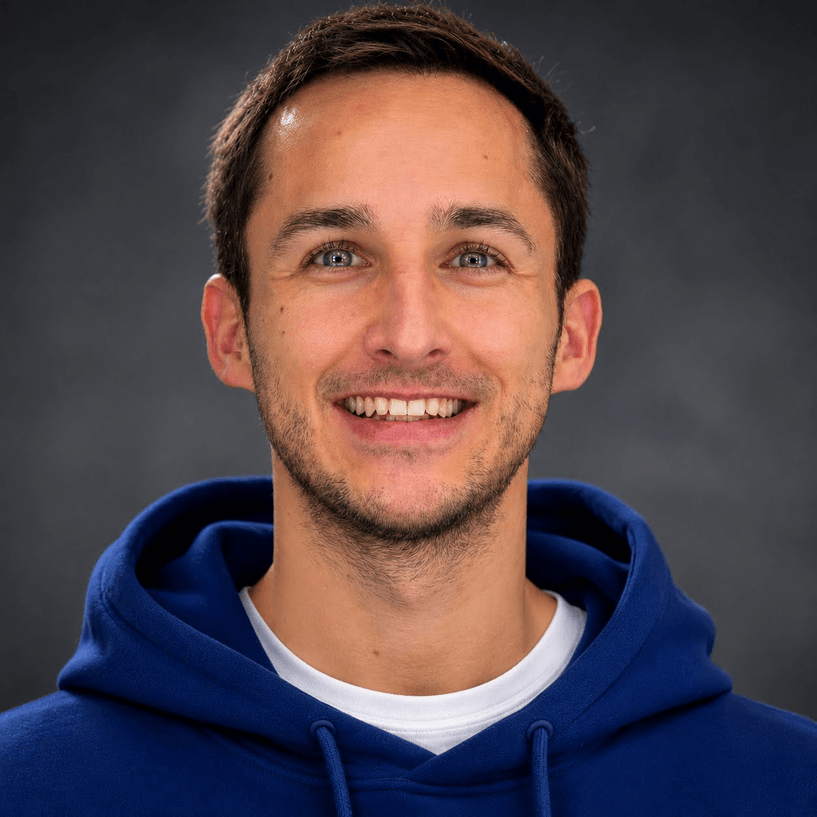
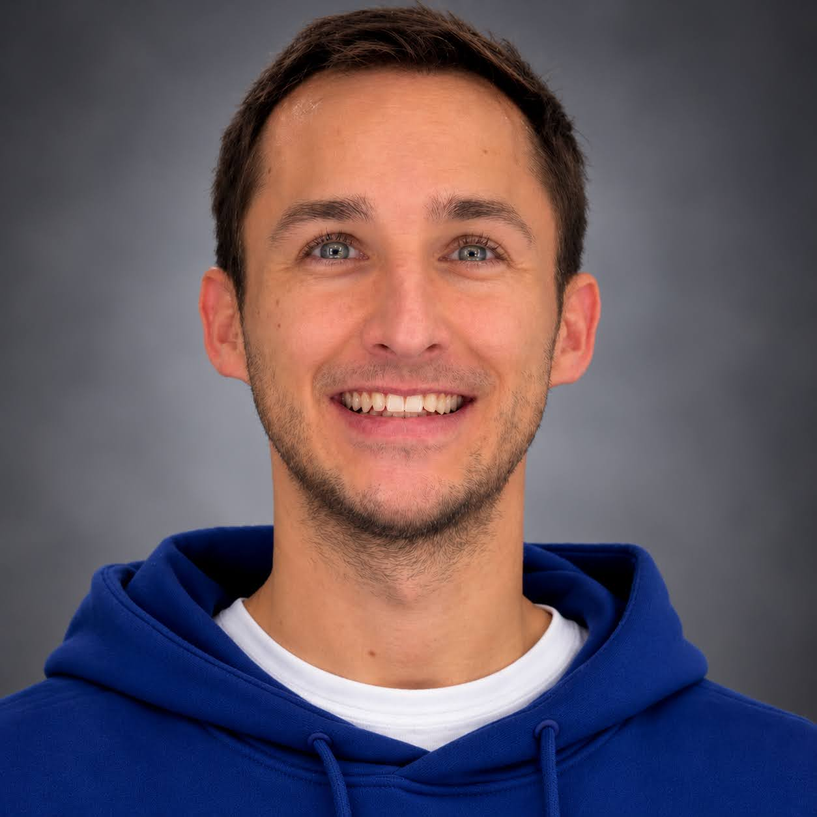
update profile picture (new edit)

diff --git a/index.html b/index.html
@@ -5,7 +5,7 @@ share-title: Dr. Florian Geigl | Klagenfurt, Austria
 share-description: Florian — curious mind, centered on meditation, slow living, sport, and reading in Klagenfurt, Austria.
 
 # Prefer portrait as the primary preview image (SEO/social; no visible impact)
-share-img: /assets/img/profile-picture-florian-geigl-2026-large.webp
+share-img: /assets/img/profile-picture-florian-geigl-2026-v2-large.webp
 share-img-alt: Portrait of Dr. Florian Geigl
 
 # SEO-only structured data (no visible content)
